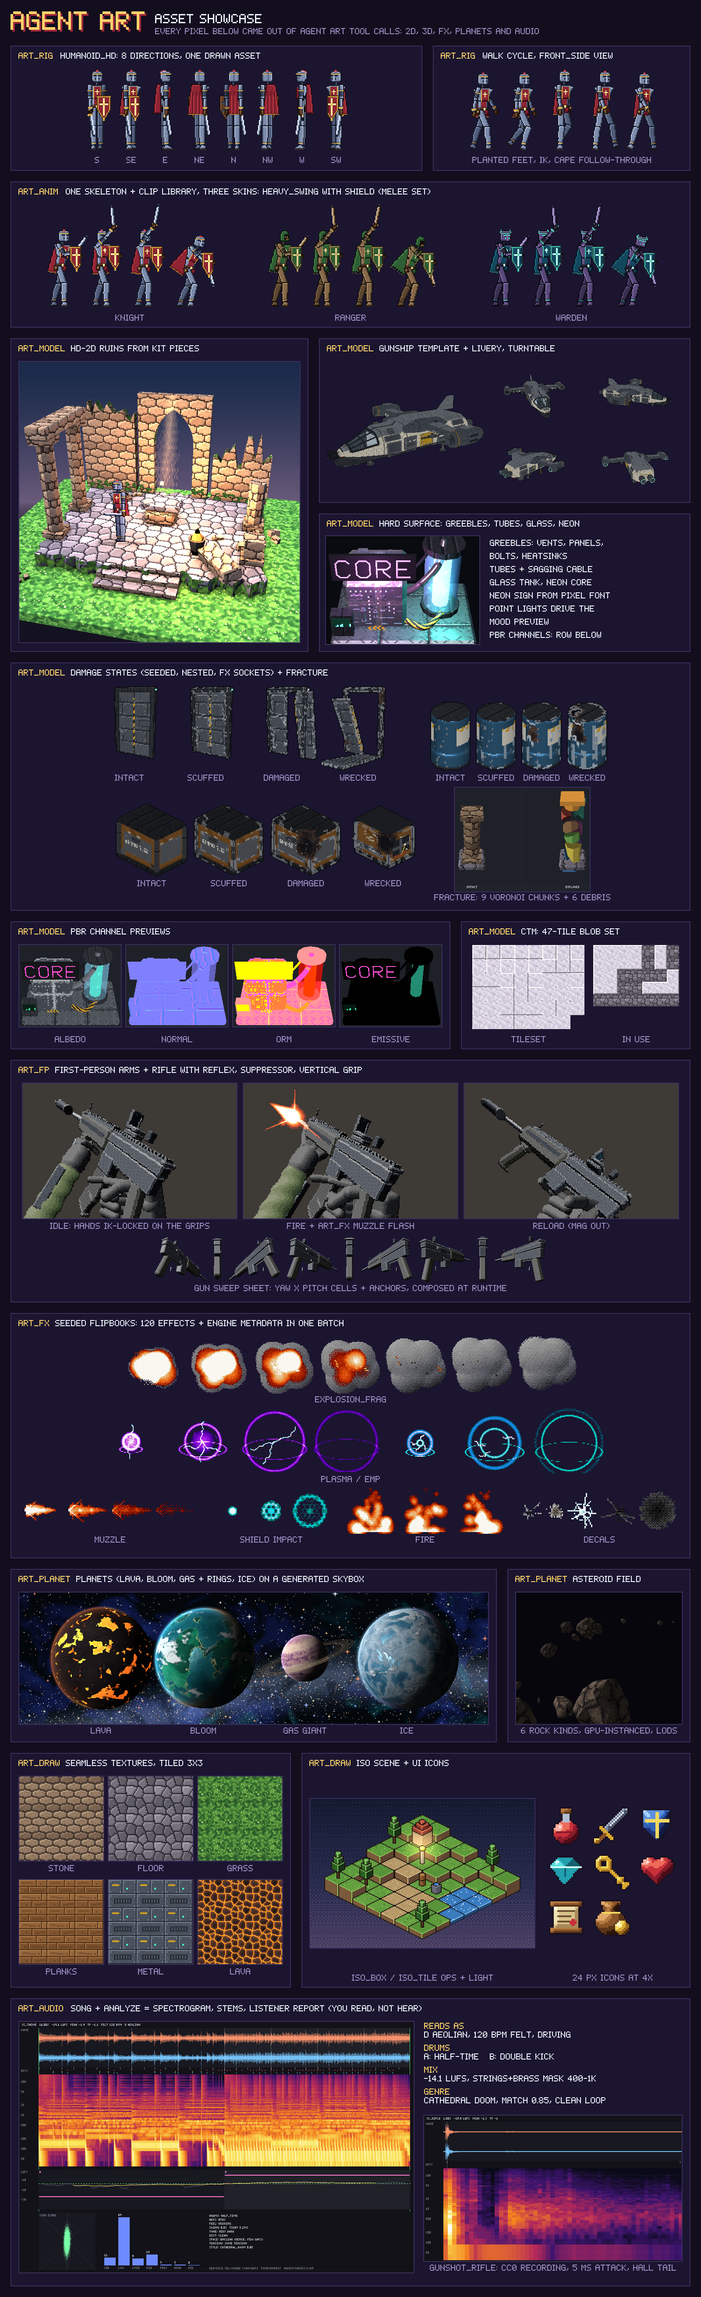
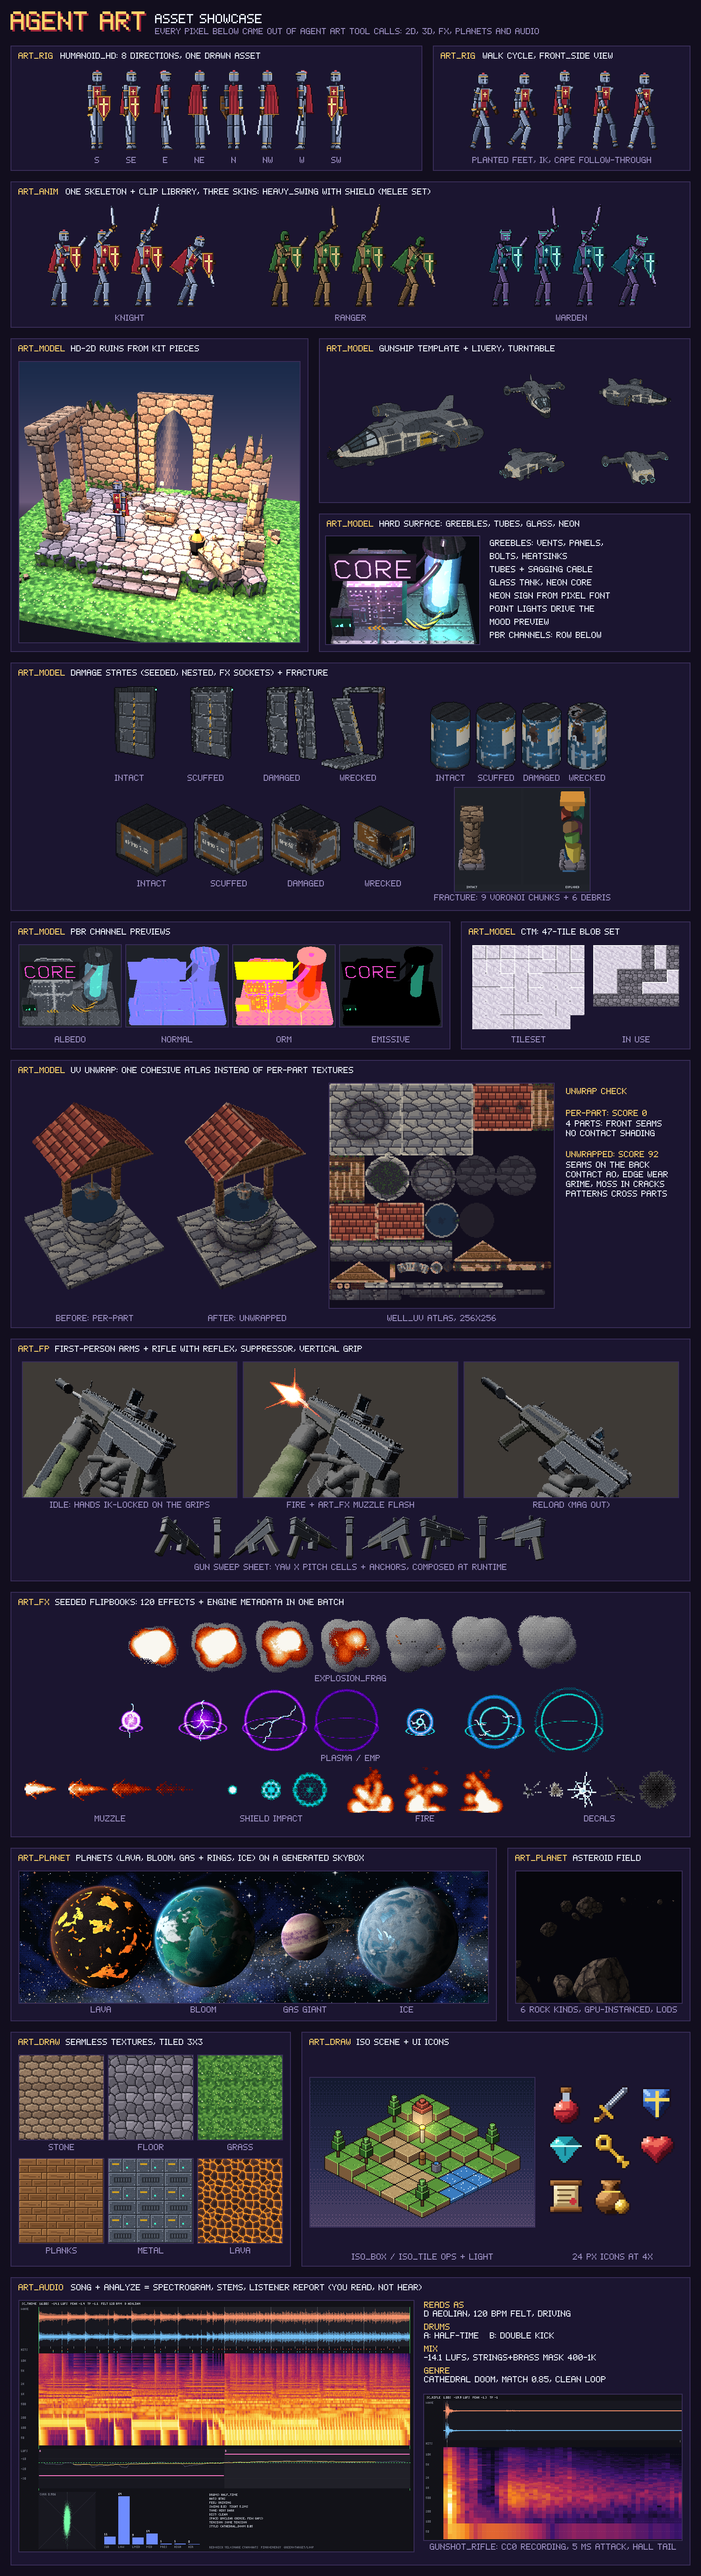
README showcase: UV unwrap panel (per-part vs unwrapped well, its atlas, the check scores)

diff --git a/README.md b/README.md
@@ -8,7 +8,7 @@
 
 The banner and every asset in this showcase were made by an agent through Agent Art's own tools:
 
-![Asset showcase: an HD humanoid rig in 8 directions and a walk cycle; three skins sharing one skeleton and melee clip; HD-2D ruins built from 3D kit pieces; a gunship template with livery; a hard-surface reactor prop with neon and glass; door, barrel and crate damage states and a column fracture; PBR channel previews and a connected-texture set; first-person arms with a rifle and attachments; explosion, plasma, muzzle, shield, fire and decal flipbooks; planets on a skybox and an asteroid field; seamless textures, an iso scene and UI icons; song and gunshot analysis](docs/brand/showcase.png)
+![Asset showcase: an HD humanoid rig in 8 directions and a walk cycle; three skins sharing one skeleton and melee clip; HD-2D ruins built from 3D kit pieces; a gunship template with livery; a hard-surface reactor prop with neon and glass; door, barrel and crate damage states and a column fracture; PBR channel previews and a connected-texture set; a stone well textured per part and then UV-unwrapped into one cohesive atlas, with the atlas itself; first-person arms with a rifle and attachments; explosion, plasma, muzzle, shield, fire and decal flipbooks; planets on a skybox and an asteroid field; seamless textures, an iso scene and UI icons; song and gunshot analysis](docs/brand/showcase.png)
 
 ![Agent Art web UI: activity timeline, asset browser and canvas viewer](docs/ui/01-overview.png)
 
